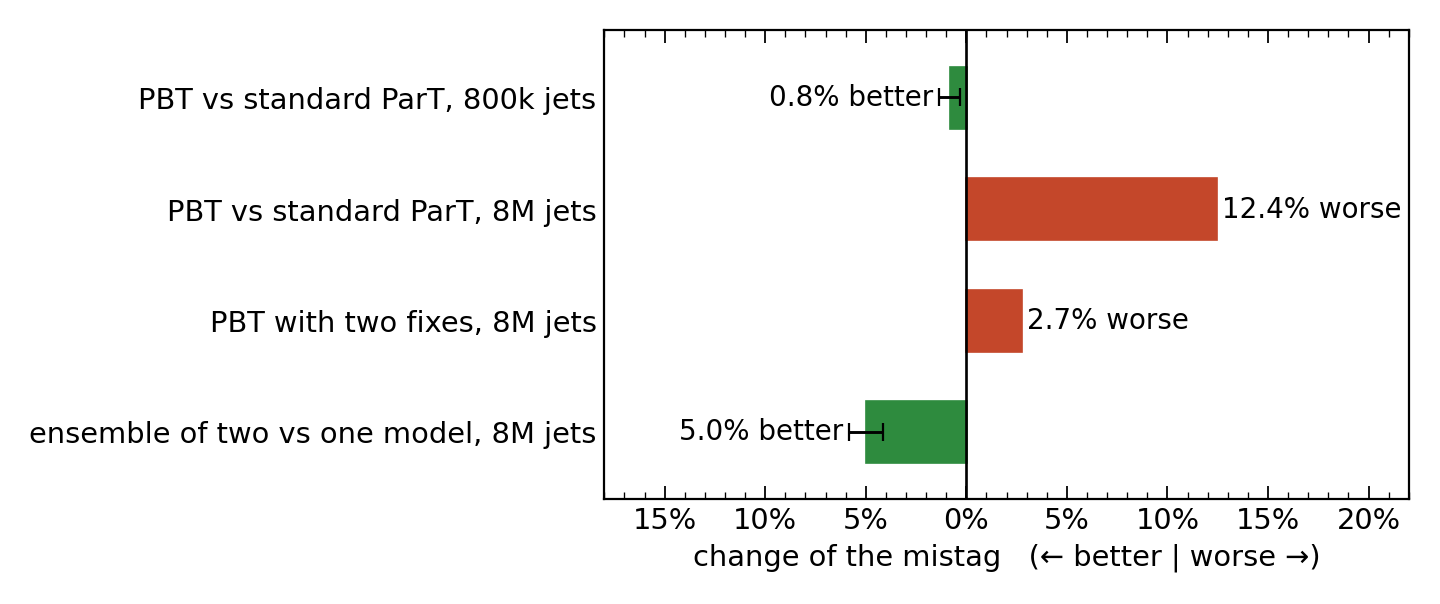
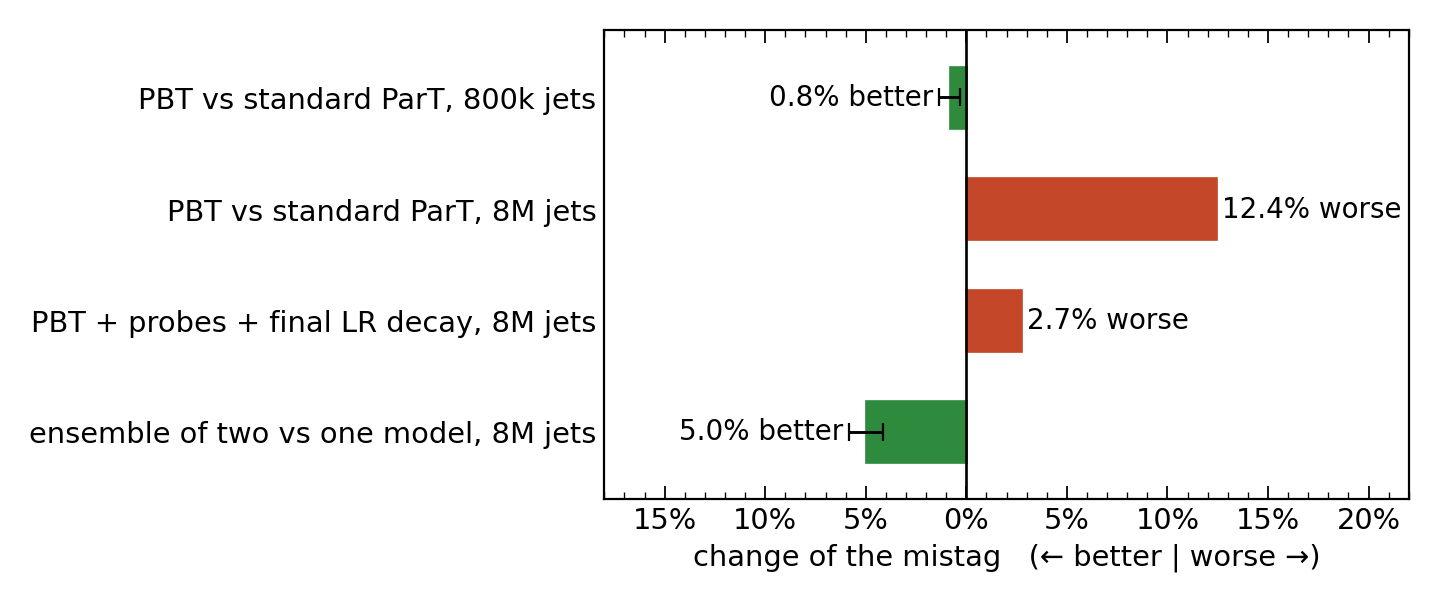
Define Validation on the report page, explain the 800k and 8M mistag levels, drop the stage 1 chart, and name the PBT fixes in the main chart

Changed region(s): [[0.0, 0.5066, 0.4062, 0.5662]]

diff --git a/docs/_extra/overview.html b/docs/_extra/overview.html
@@ -46,8 +46,11 @@ November: no run in progress. <a href="results.html">Detailed results</a> ·
 <li><b>PBT</b>: five models train in parallel. Every few epochs the weakest copies the weights of the best one and
 changes its LR.</li>
 <li><b>Constant LR</b>: five models, each with one LR for all 50 epochs.</li>
+<li><b>Validation</b>: data checked after every epoch to select the best model and to steer PBT (150k jets until
+9 November, then 1M jets). It is separate from the Test data.</li>
 <li><b>Numbers</b>: mistag in % on Test data (2.8M jets, used once per model after selection); lower is better.
-Training data: 800k or 8M jets.</li>
+Training data: 800k or 8M jets. With 8M training jets every model is much better (mistag about 0.16% instead of
+0.30%), so only comparisons within the same training data are meaningful.</li>
 </ul>
 
 <img src="overview_figs/summary.png" alt="Main results: change of the mistag for four comparisons">
@@ -56,7 +59,6 @@ Training data: 800k or 8M jets.</li>
 <h2><small>Stage 1 · Sep 16 – Oct 21 · 800k, then 8M jets</small>PBT looked better than constant learning rates</h2>
 <p><b>Did:</b> compared PBT with constant LRs, first on 800k jets, then on 8M jets.</p>
 <p><b>Means:</b> not valid. The best constant LR was always the highest one tried, so the constant LRs were too low (stage 2).</p>
-<img src="overview_figs/stage1.png" alt="PBT against constant LR, 800k and 8M jets">
 <div class="tw"><table><thead><tr><th>#</th><th>Dates</th><th>Configuration</th><th>Result</th></tr></thead><tbody><tr><td class="n">1</td><td class="d">Sep 16</td><td>Constant LR, five values 3×10<sup>−6</sup> to 1.4×10<sup>−5</sup></td><td class="r ">0.3269; best value is the highest one</td></tr><tr><td class="n">2</td><td class="d">Sep 17–18</td><td>Two of these LRs continued to 100 epochs</td><td class="r ">0.3156</td></tr><tr><td class="n">3</td><td class="d">Sep 18</td><td>PBT, LR changed every 5 epochs (×0.8 or ×1.2), at most 3×10<sup>−5</sup></td><td class="r invalid">0.3225: 1.4% better than #1</td></tr><tr><td class="n">4</td><td class="d">Sep 19</td><td>PBT as #3, 100 epochs</td><td class="r invalid">0.3111: 1.4% better than #2</td></tr><tr><td class="n">6</td><td class="d">Sep 23–29</td><td>PBT, LR changed every epoch or every 5 epochs; 2 seeds</td><td class="r none">no clear difference</td></tr><tr><td class="n">10</td><td class="d">Oct 14–21</td><td>8M jets: constant LR as #1 against PBT as #3; fixed in advance</td><td class="r invalid">7.7% better (Test 9.0M)</td></tr></tbody></table></div>
 
 <h2><small>Stage 2 · Nov 3 – Nov 9 · 800k jets</small>A higher constant LR does what PBT did</h2>

diff --git a/scripts/reports/overview_template.html b/scripts/reports/overview_template.html
@@ -46,8 +46,11 @@ November: no run in progress. <a href="results.html">Detailed results</a> ·
 <li><b>PBT</b>: five models train in parallel. Every few epochs the weakest copies the weights of the best one and
 changes its LR.</li>
 <li><b>Constant LR</b>: five models, each with one LR for all 50 epochs.</li>
+<li><b>Validation</b>: data checked after every epoch to select the best model and to steer PBT (150k jets until
+9 November, then 1M jets). It is separate from the Test data.</li>
 <li><b>Numbers</b>: mistag in % on Test data (2.8M jets, used once per model after selection); lower is better.
-Training data: 800k or 8M jets.</li>
+Training data: 800k or 8M jets. With 8M training jets every model is much better (mistag about 0.16% instead of
+0.30%), so only comparisons within the same training data are meaningful.</li>
 </ul>
 
 <img src="overview_figs/summary.png" alt="Main results: change of the mistag for four comparisons">
@@ -56,7 +59,6 @@ Training data: 800k or 8M jets.</li>
 <h2><small>Stage 1 · Sep 16 – Oct 21 · 800k, then 8M jets</small>PBT looked better than constant learning rates</h2>
 <p><b>Did:</b> compared PBT with constant LRs, first on 800k jets, then on 8M jets.</p>
 <p><b>Means:</b> not valid. The best constant LR was always the highest one tried, so the constant LRs were too low (stage 2).</p>
-<img src="overview_figs/stage1.png" alt="PBT against constant LR, 800k and 8M jets">
 {{table:s1}}
 
 <h2><small>Stage 2 · Nov 3 – Nov 9 · 800k jets</small>A higher constant LR does what PBT did</h2>

diff --git a/scripts/reports/plot_overview_figs.py b/scripts/reports/plot_overview_figs.py
@@ -65,13 +65,9 @@ def summary():
     delta_bars('summary.png', [
         ('PBT vs standard ParT, 800k jets', -0.81, GOOD, (-1.34, -0.34), False),
         ('PBT vs standard ParT, 8M jets', 12.4, BAD, None, False),
-        ('PBT with two fixes, 8M jets', 2.7, BAD, None, False),
+        ('PBT + probes + final LR decay, 8M jets', 2.7, BAD, None, False),
         ('ensemble of two vs one model, 8M jets', -5.01, GOOD, (-5.84, -4.17), False)], (-18, 22))
 
-
-def stage1():
-    delta_bars('stage1.png', [('PBT vs constant LR, 800k jets', -1.36, CONST, None, True),
-                              ('PBT vs constant LR, 8M jets', -7.67, CONST, None, True)], (-15, 3))
 
 
 def stage2():
@@ -195,5 +191,5 @@ def why():
 
 if __name__ == '__main__':
     OUT.mkdir(parents=True, exist_ok=True)
-    for f in (summary, stage1, stage2, stage3, stage4, stage5, why):
+    for f in (summary, stage2, stage3, stage4, stage5, why):
         f()
